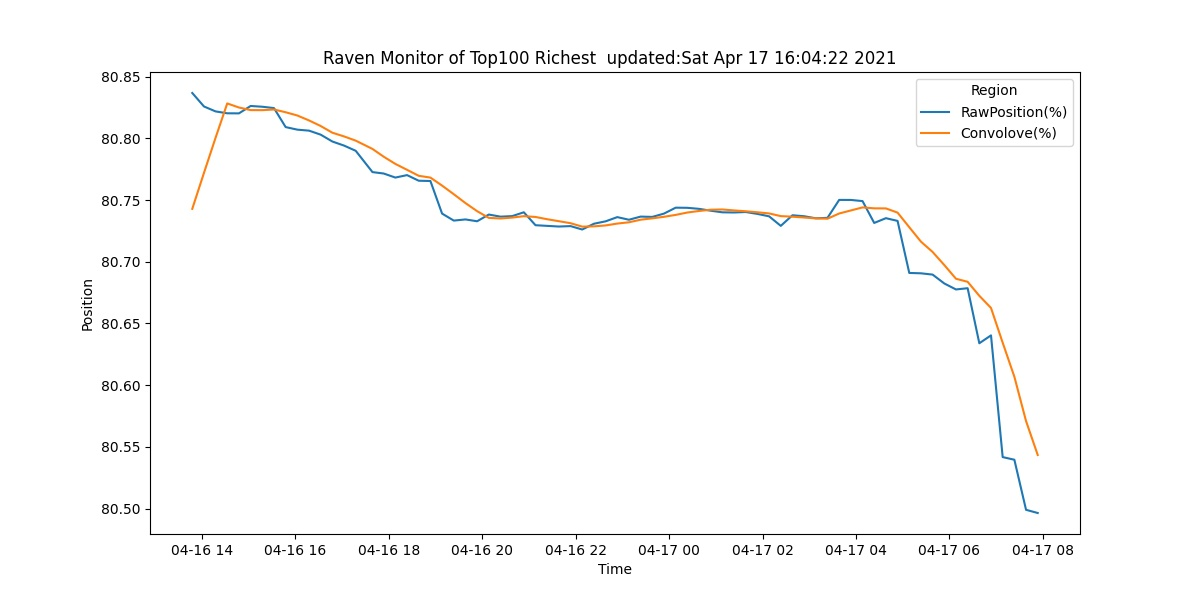
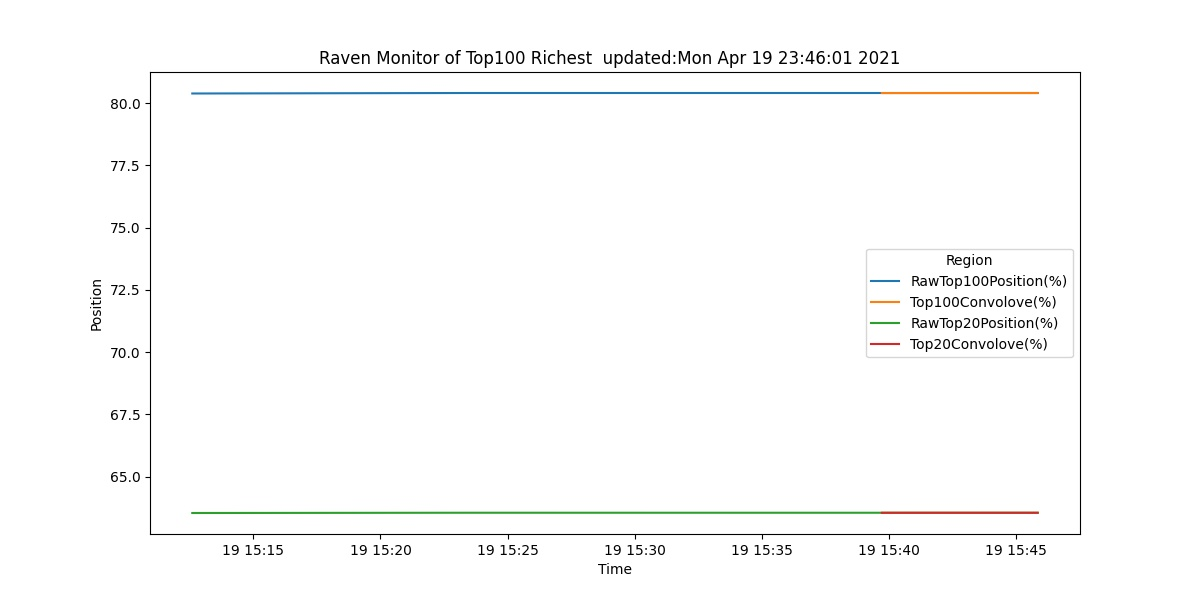
top 20 vis

diff --git a/Visualize/virsualListener.py b/Visualize/virsualListener.py
@@ -10,7 +10,7 @@ from sqlalchemy.ext.automap import automap_base
 try:
     print(curTime()+"开始连接SQL，请稍等") #Connect to database
     #please set your password here, default user name is postgres
-    engine = create_engine("postgresql://postgres:yourPassword@yourDomainName.com:5432/raven")
+    engine = create_engine("postgresql://postgres:MeiYouMiMa!@Infiiinity.xyz:5432/raven")
     base = automap_base()
     base.prepare(engine, reflect=True)
 
@@ -33,29 +33,53 @@ import matplotlib.pyplot as plt
 import pandas as pd
 import numpy as np
 import datetime
-plt.figure(figsize=(12, 6))
+plt.figure(figsize=(16, 8))
 
 def genimage():
     Datas=session.query(
         top100sum.time,
-        top100sum.topSum,
+        top100sum.topSum100,
+        top100sum.topSum20,
         top100sum.supply
         ).all()
 
-    def percent(data):
-        return [data[0],100*data[1]/data[2]]
+    def percentOf100(data):
+        return [data[0],100*data[1]/data[3]]
+        
+    def percentOf20(data):
+        return [data[0],100*data[2]/data[3]]
 
-    Datas=map(percent,Datas)
+    DatasOf100=map(percentOf100,Datas)
+    DatasOf20=map(percentOf20,Datas)
     
-    Datas = pd.DataFrame(data=Datas, columns=['Time','Position'])
-    Conv = pd.DataFrame(data=Datas['Time'][4:],columns=['Time'])
-    Conv["Position"]=np.convolve(Datas['Position'],[0.2,0.2,0.2,0.2,0.2],'valid')
-    Datas=Datas[4:]
-    Datas['Region']="RawPosition(%)"
-    Conv['Region']="Convolove(%)"
-    # print(Datas)
-    # print(Conv)
-    Datas=pd.concat([Datas,Conv])
+    DatasOf100 = pd.DataFrame(data=DatasOf100, columns=['Time','Position'])
+    DatasOf20 = pd.DataFrame(data=DatasOf20, columns=['Time','Position'])
+
+    Conv100=[]
+    Conv20=[]
+
+    if(len(DatasOf100)>=10):
+        Conv100 = pd.DataFrame(data=DatasOf100['Time'][9:],columns=['Time'])
+        Conv100["Position"]=np.convolve(DatasOf100['Position'],[0.1]*10,'valid')
+
+    if(len(DatasOf20)>=10):
+        Conv20 = pd.DataFrame(data=DatasOf20['Time'][9:],columns=['Time'])
+        Conv20["Position"]=np.convolve(DatasOf20['Position'],[0.1]*10,'valid')
+
+    DatasOf100['Region']="RawTop100Position(%)"
+    print(DatasOf100)
+    DatasOf20['Region']="RawTop20Position(%)"
+    print(DatasOf20)
+    if(len(Conv100)>0):
+        Conv100['Region']="Top100Convolove(%)"
+        print(Conv100)
+    if(len(Conv20)>0):
+        Conv20['Region']="Top20Convolove(%)"
+        print(Conv20)
+    if((len(Conv100)>0) & (len(Conv20)>0)):
+        Datas=pd.concat([DatasOf100,Conv100,DatasOf20,Conv20])
+    else:
+        Datas=pd.concat([DatasOf100,DatasOf20])
     plt.cla()
     image=sns.lineplot(data=Datas,x='Time',y='Position',hue='Region')
     plt.title('Raven Monitor of Top100 Richest  updated:'+curTime())
